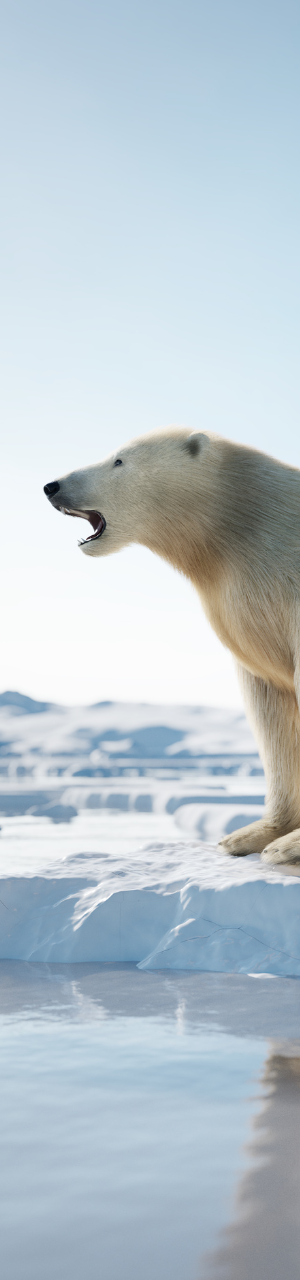
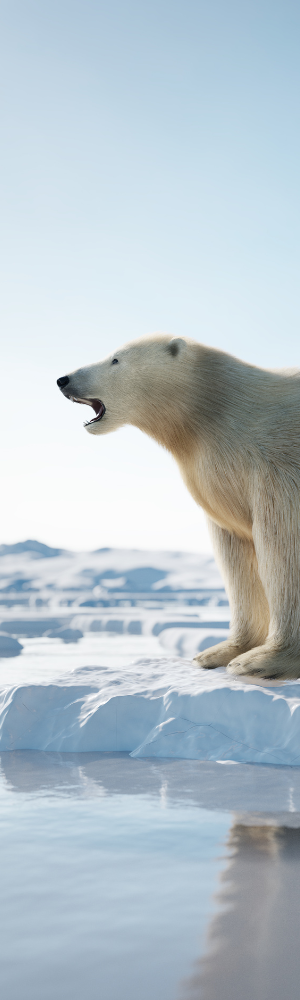
Update sidebar image

diff --git a/src/app/globals.css b/src/app/globals.css
@@ -21,7 +21,7 @@ body {
 .sidebar {
   width: 18vw;
   height: 100%;
-  background-image: url("/sidebar-bg.png");
+  background-image: url("/sidebar-bg1.png");
   background-repeat: no-repeat;
   position: fixed
 }
